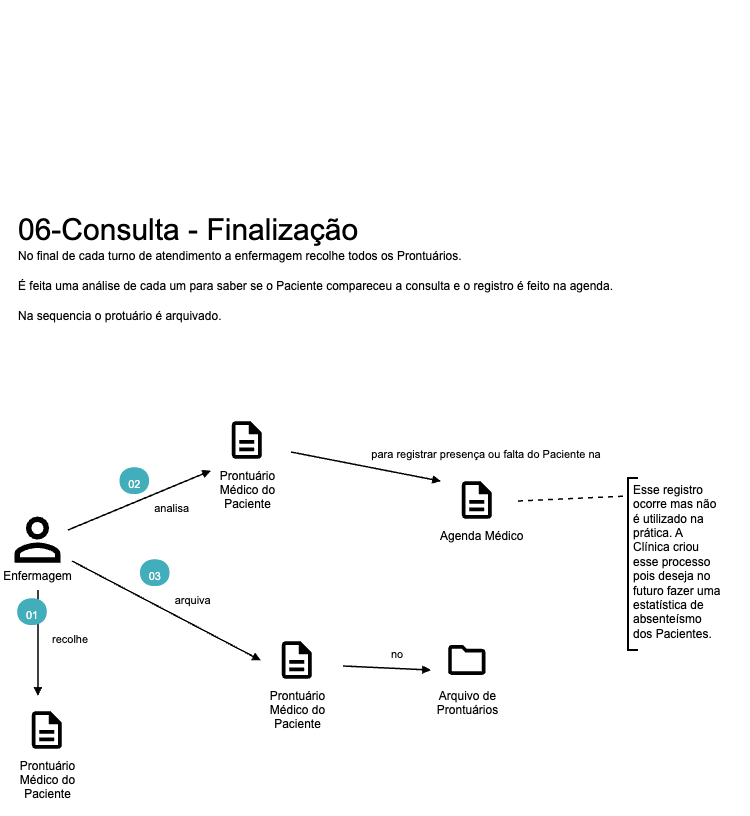
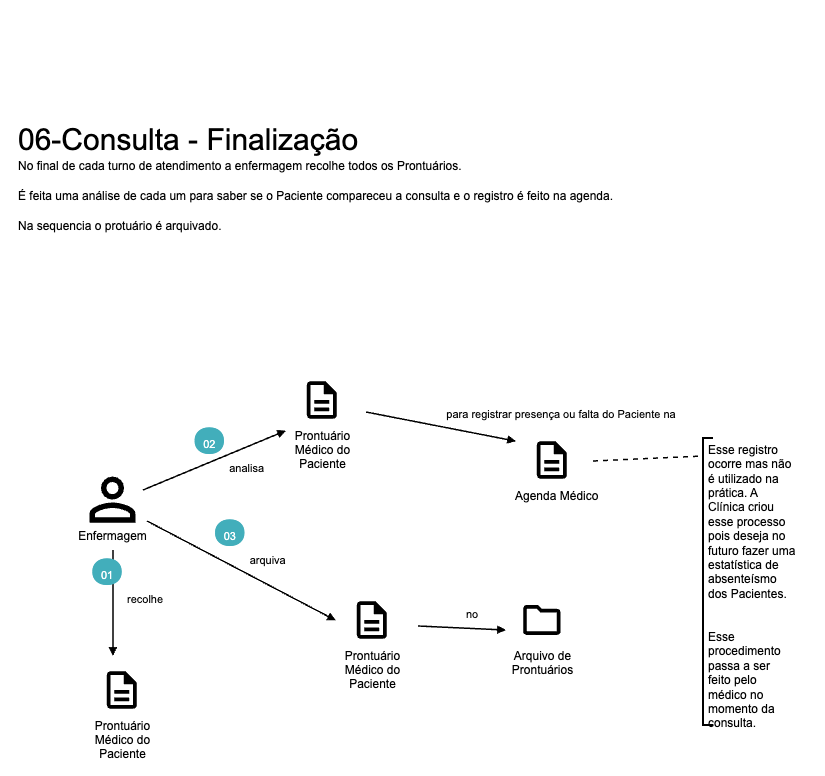
(wip) contextos delimitados

diff --git a/documentacao/requisitos.md b/documentacao/requisitos.md
@@ -35,7 +35,9 @@ O time de desenvolvimento conversou com o responsável pela clínica, uma pessoa
 
 #### Domínios e Contextos Delimitados Identificados
 
-TODO - Incluir imagem com os contextos delimitados
+##### Domínios
+
+![Domínios Identificados](./imagens/dominiosAloDoutor.png)
 
 
 
@@ -52,6 +54,7 @@ TODO - Incluir imagem com os relacionamentos entre os contextos delimitados
     - O proprio medico pode se cadastrar porém o RH precisa validar o seu registro
     - O médico só pode alterar o seu horário de atentimento do dia 01 ao dia 15 e a alteração só é válida para a agenda do mês seguinte
     - O próprio médico pode se tornar indisponível para atendimento. Essa alteração só pode ser feita de 01 a 15 do mês e só é válida para a agenda do mês seguinte
+    - O médico só pode estar cadastrado com uma especialidade, porém ela deve ser escolhida de uma lista de especialidades pré-cadastradas
 
 </br>
 
@@ -59,6 +62,7 @@ TODO - Incluir imagem com os relacionamentos entre os contextos delimitados
     - O Paciente não pode ser cadastrado sem nome, CPF, data de nascimento e telefone
     - Não pode haver dois pacientes com o mesmo CPF
     - O próprio paciente pode se cadastrar no sistema porém algum recepcionista precisa validar o cadastro
+    - O Prontuário Médico do Paciente deve receber um número único após a aprovação do cadastro do paciente.
     
 <br>
 
@@ -75,12 +79,20 @@ TODO - Incluir imagem com os relacionamentos entre os contextos delimitados
     - A consulta pode ser cancelada pela Secretária ou pelo Paciente
     - A secretária também pode marcar consultas para os Pacientes
 
+
+- Execução da Consulta
+    - O médico deve registrar a consulta no prontuário digital do paciente.
+    - Ele deve informar resultados de exames e anamnese do Paciente
+    - Ele só pode alterar pacientes que tenham consulta agendada naquele dia
+
 <br>
 
 - Controle de Acesso
     - A administração da Clínica quer que o sistema tenha controle de acesso para os usuários com os seguintes perfis:
         - Médico
-            - Só pode se cadastrar e alterar seus horários de atendimento
+            - Pode se cadastrar e alterar seus horários de atendimento
+            - Pode registrar os dados da consulta do paciente
+            - Pode ver o histórico de consultas do paciente
         - Secretária
             - Pode marcar e cancelar consultas
             - Pode gerar a agenda
@@ -91,8 +103,7 @@ TODO - Incluir imagem com os relacionamentos entre os contextos delimitados
             - Pode marcar e cancelar consultas
             - Pode se cadastrar no sistema
         - Enfermagem
-            - Lista as consultas de um dia e turno específico
-            - Registra comparecimento ou falta do paciente
+            - Lista as consultas de um dia e turno específico            
         - Administração
             - Tem permissão total no sistema
 
